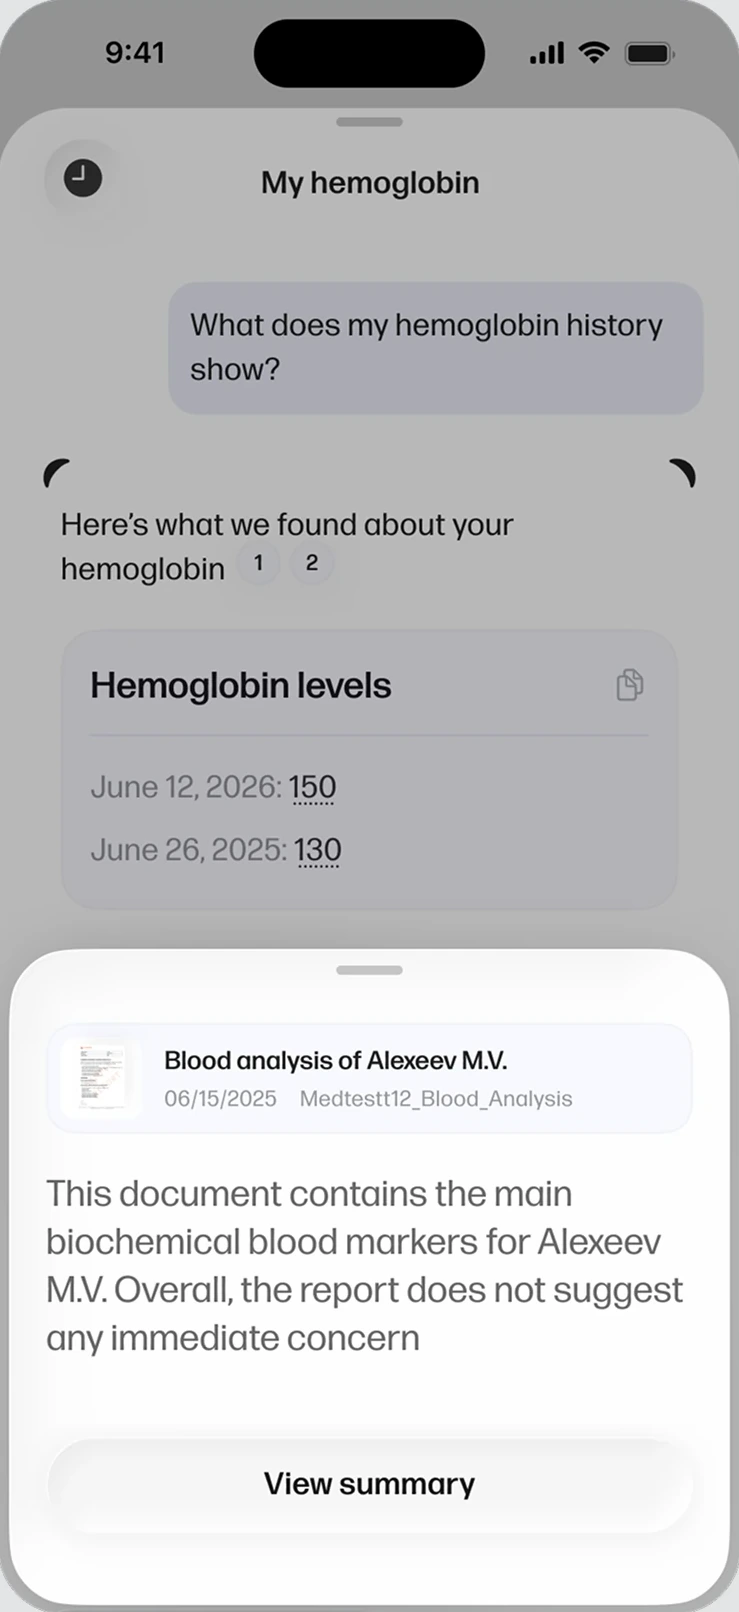
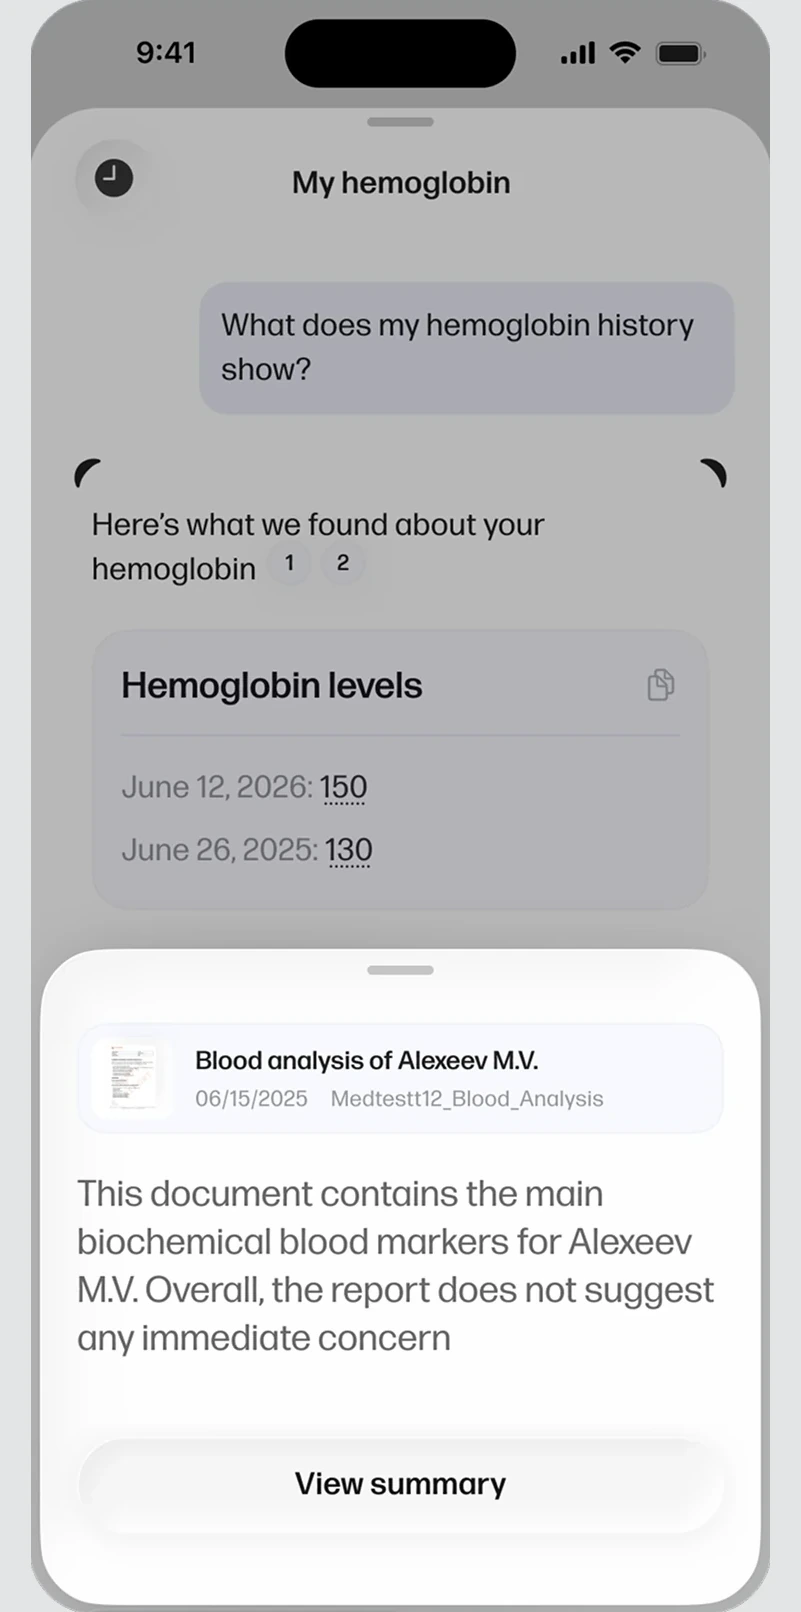
Align chatA 3rd phone width to the other two
case-chatA-s3 had a narrower aspect (0.458 vs 0.497), so it rendered ~10px
narrower than the first two phones. Pad it to AR 0.497 on the card's grey
so all three assistant phones render at an identical width. v=7.

diff --git a/hooh.html b/hooh.html
@@ -161,7 +161,7 @@
           <div class="case__slider" role="group" aria-label="Swipe through the three Hooh Assistant screens">
             <div class="case__slide"><img class="case__shot case__shot--phone" src="assets/case-chatA-s1.webp?v=7" alt="Hooh Assistant intro with suggested prompts" loading="lazy"></div>
             <div class="case__slide"><img class="case__shot case__shot--phone" src="assets/case-chatA-s2.webp?v=7" alt="My hemoglobin chat with inline source citations and a Health summary" loading="lazy"></div>
-            <div class="case__slide"><img class="case__shot case__shot--phone" src="assets/case-chatA-s3.webp?v=6" alt="My hemoglobin chat with a Blood analysis document card" loading="lazy"></div>
+            <div class="case__slide"><img class="case__shot case__shot--phone" src="assets/case-chatA-s3.webp?v=7" alt="My hemoglobin chat with a Blood analysis document card" loading="lazy"></div>
           </div>
         </figure>
 
